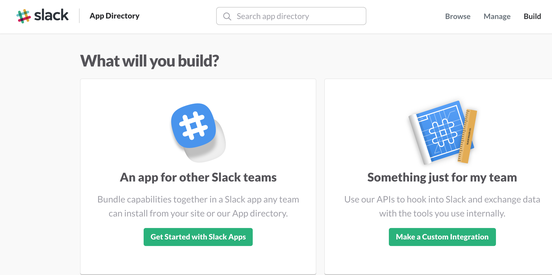
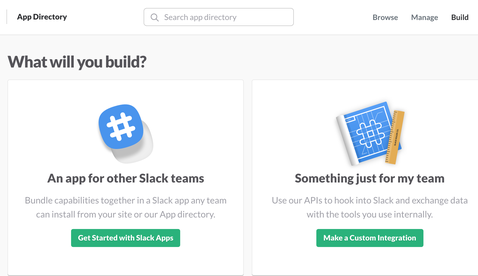
rename

diff --git a/index.html b/index.html
@@ -134,7 +134,7 @@
                 </p>
             </div>
              <div class="col-lg-6 col-lg-offset-1 col-sm-6">
-                <img class="image-responsive" src="img/build2.png" alt="build"> 
+                <img class="image-responsive" src="img/build.png" alt="build"> 
             </div>
         </div>
     </div>
